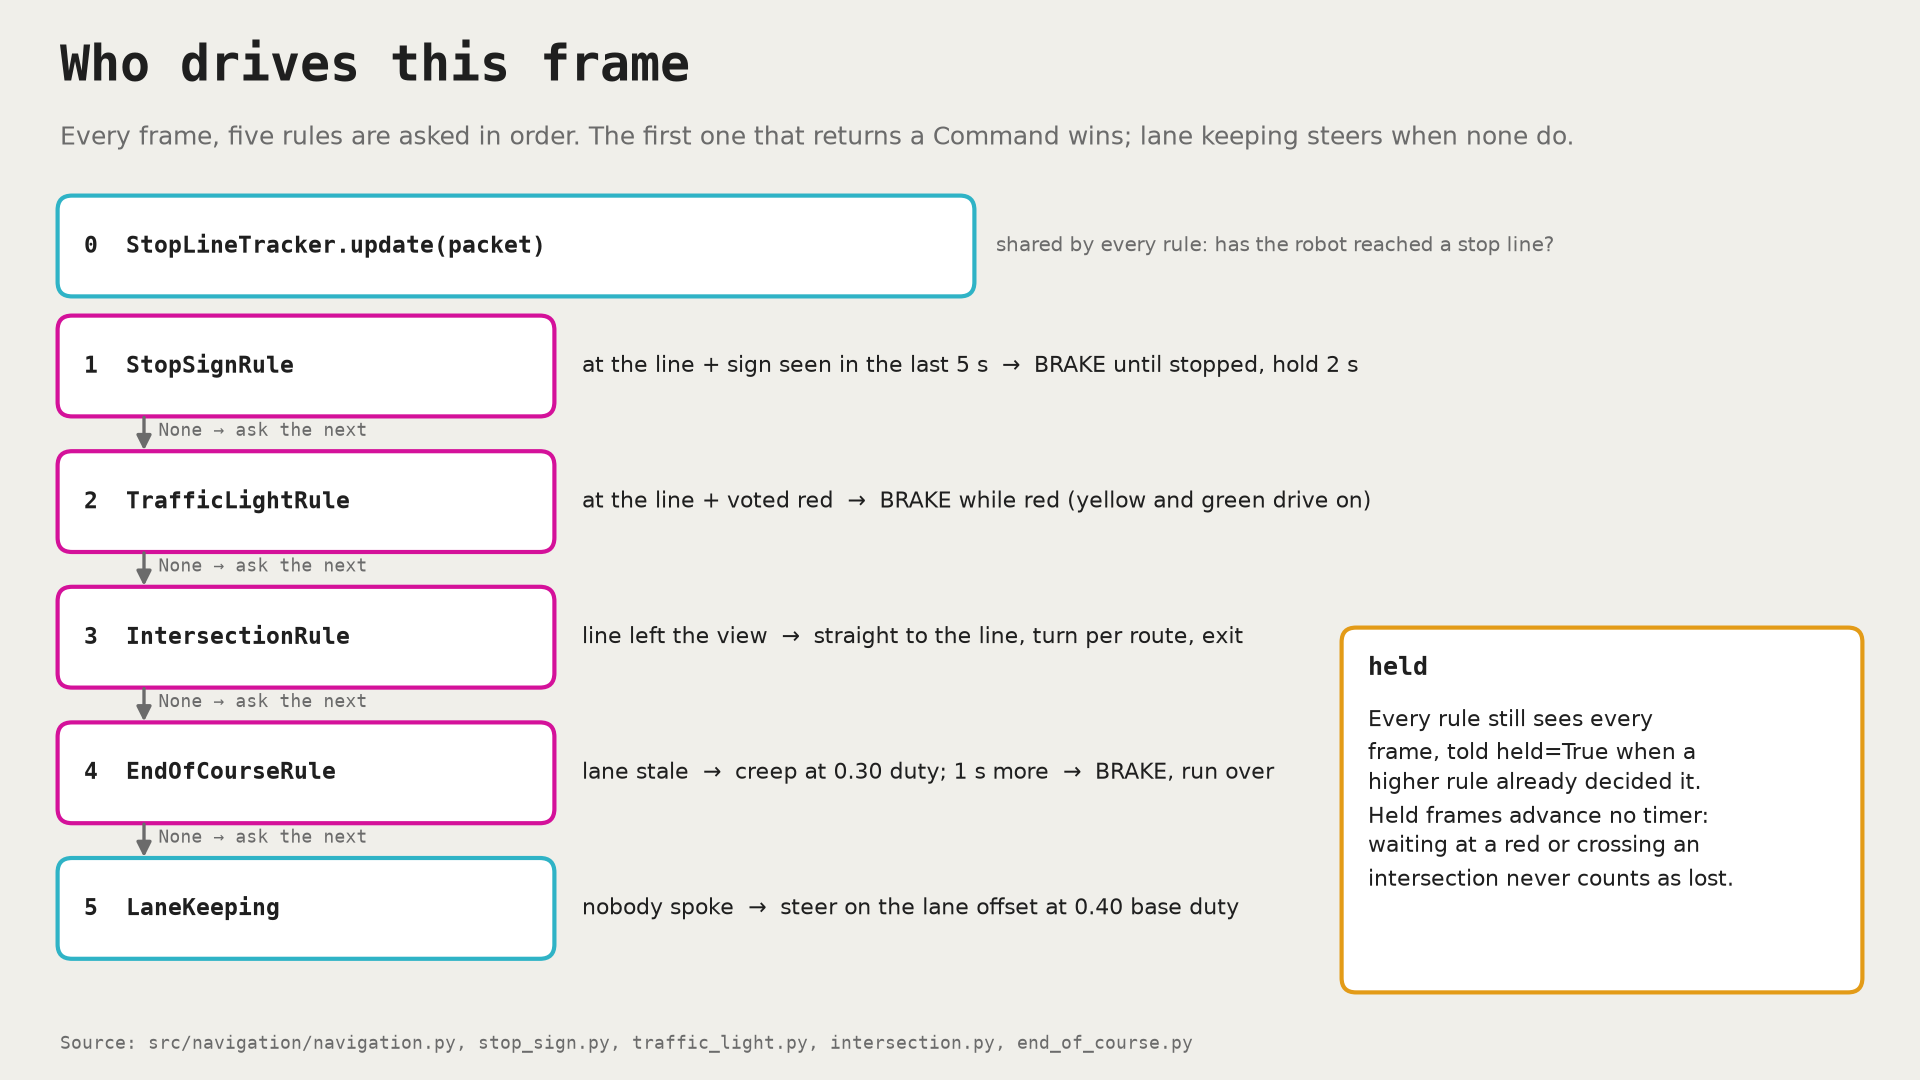
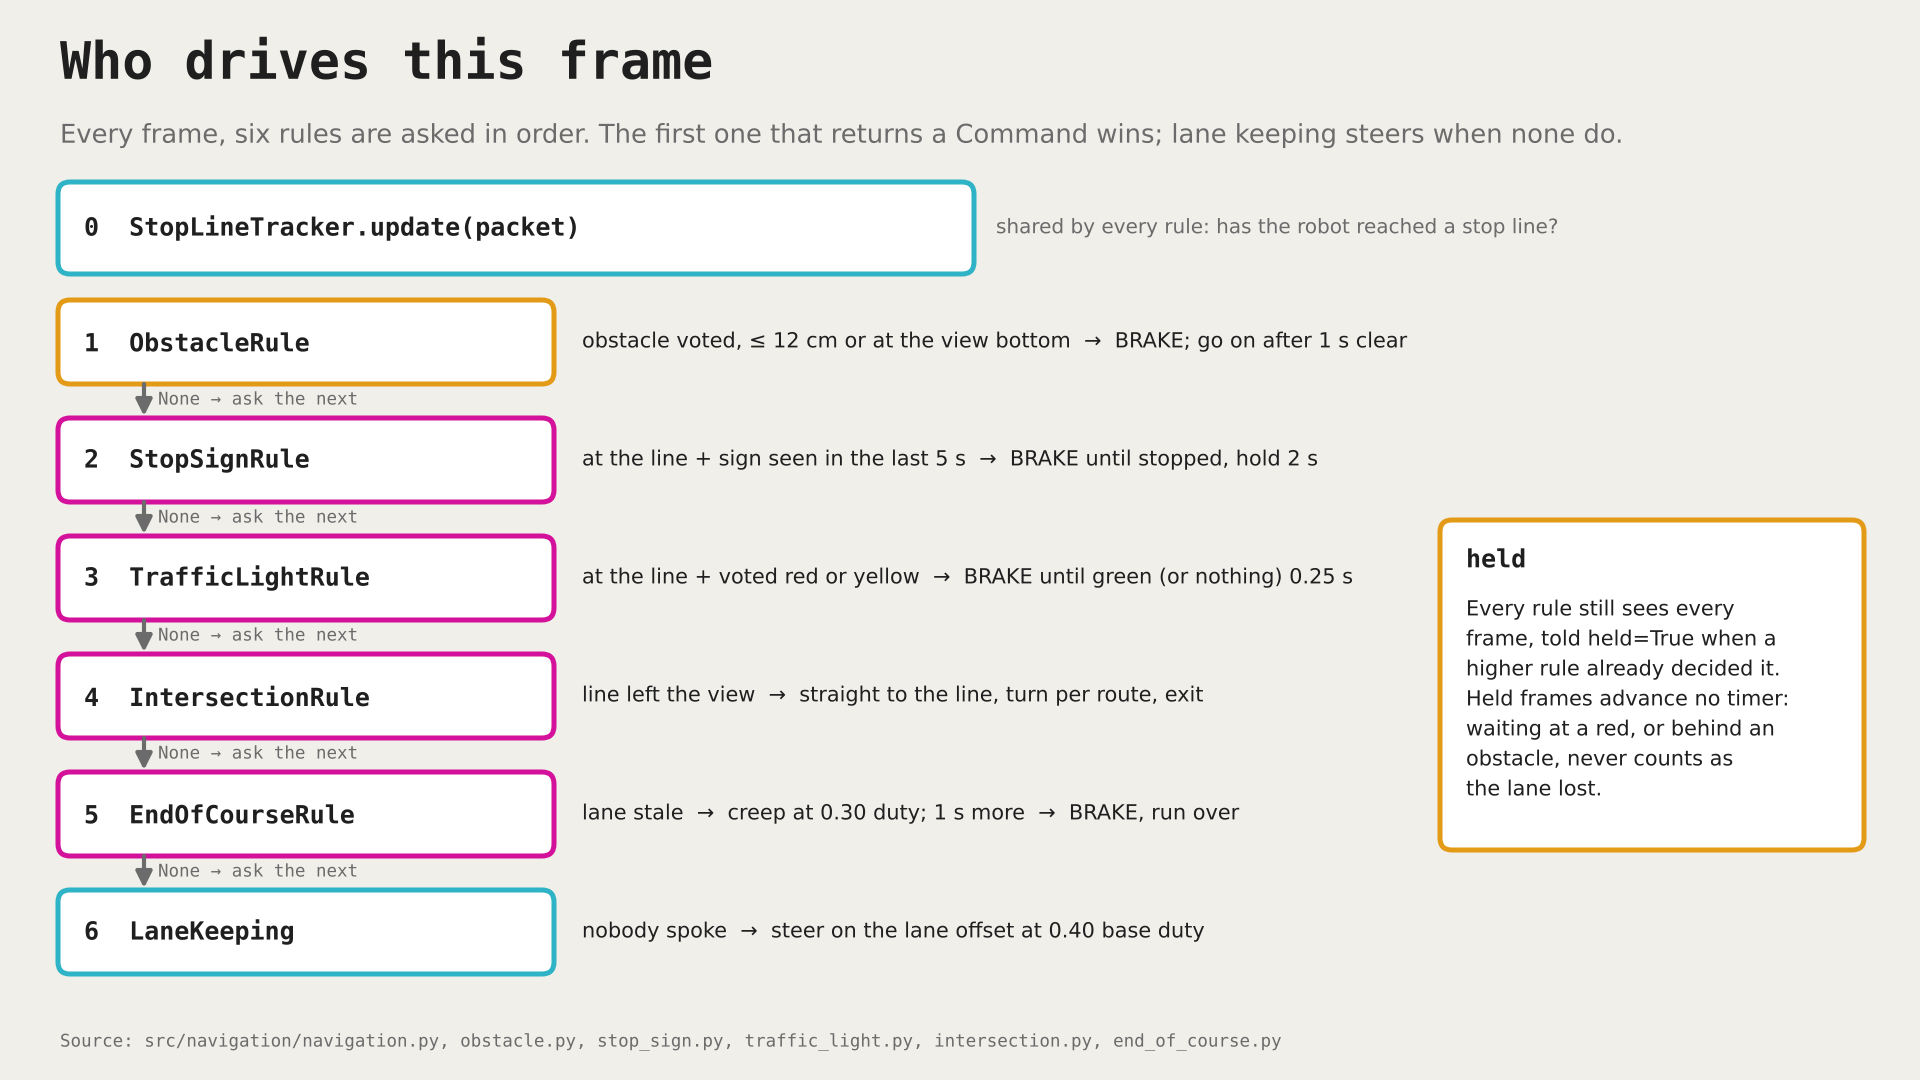
Infographics: obstacle detection, its debug view, and the stages it touches
New: 41_obstacle (not-floor mask, opening, gates, distance, vote, rule)
and 42_reading_obstacle_view (run_obstacle.avi, annotated). Updated for the
obstacle stage: 01_who_drives and 12_navigation (six rules, obstacle first;
yellow lights stop too), 10_perception (fourth region and branch),
11_estimation (ObstacleClassifier, packet fields), 15_debug_views (the
obstacle view) and 17_reading_nav_video (re-rendered with the obstacle
vote row and strip).

Claude-Session: https://claude.ai/code/session_01Avayz6FS3NCY7EKrJ6Dbtm

diff --git a/vision_stack/docs/README.md b/vision_stack/docs/README.md
@@ -80,7 +80,7 @@ docs/
     routines/
         request_card.md         the card for asking for a routine
         requests/               one filled card per routine
-    infographics/               numbered one-page explainers (01-40)
+    infographics/               numbered one-page explainers (01-42)
     diagrams/                   diagrams of the pipeline, the linkers and each phase
     architecture.md             hardware, wiring, power, software layout, risks
     concepts.md                 the ideas the docs use, explained once
